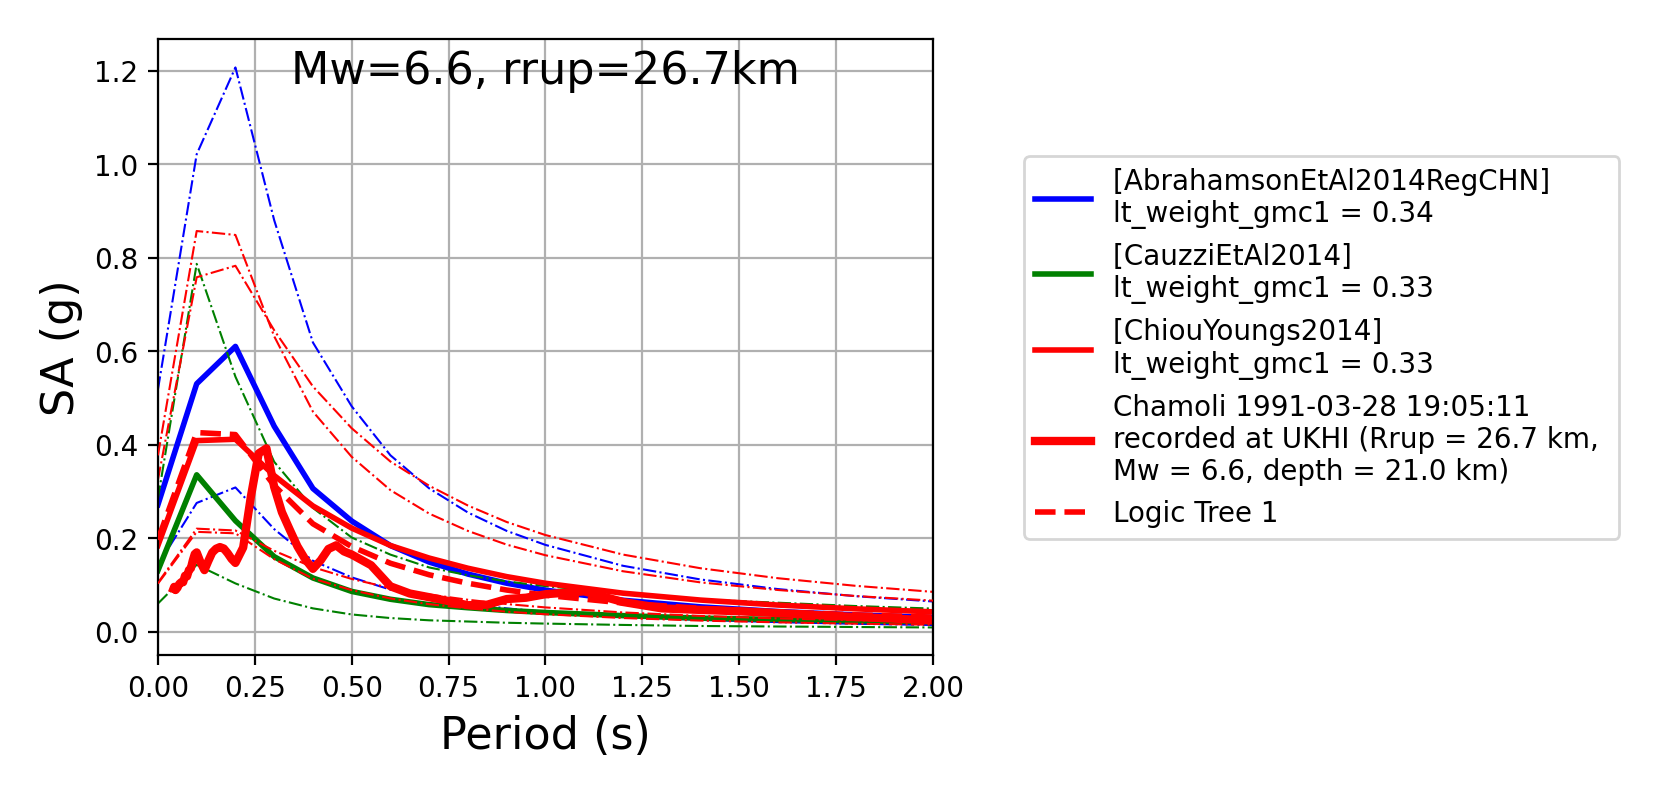
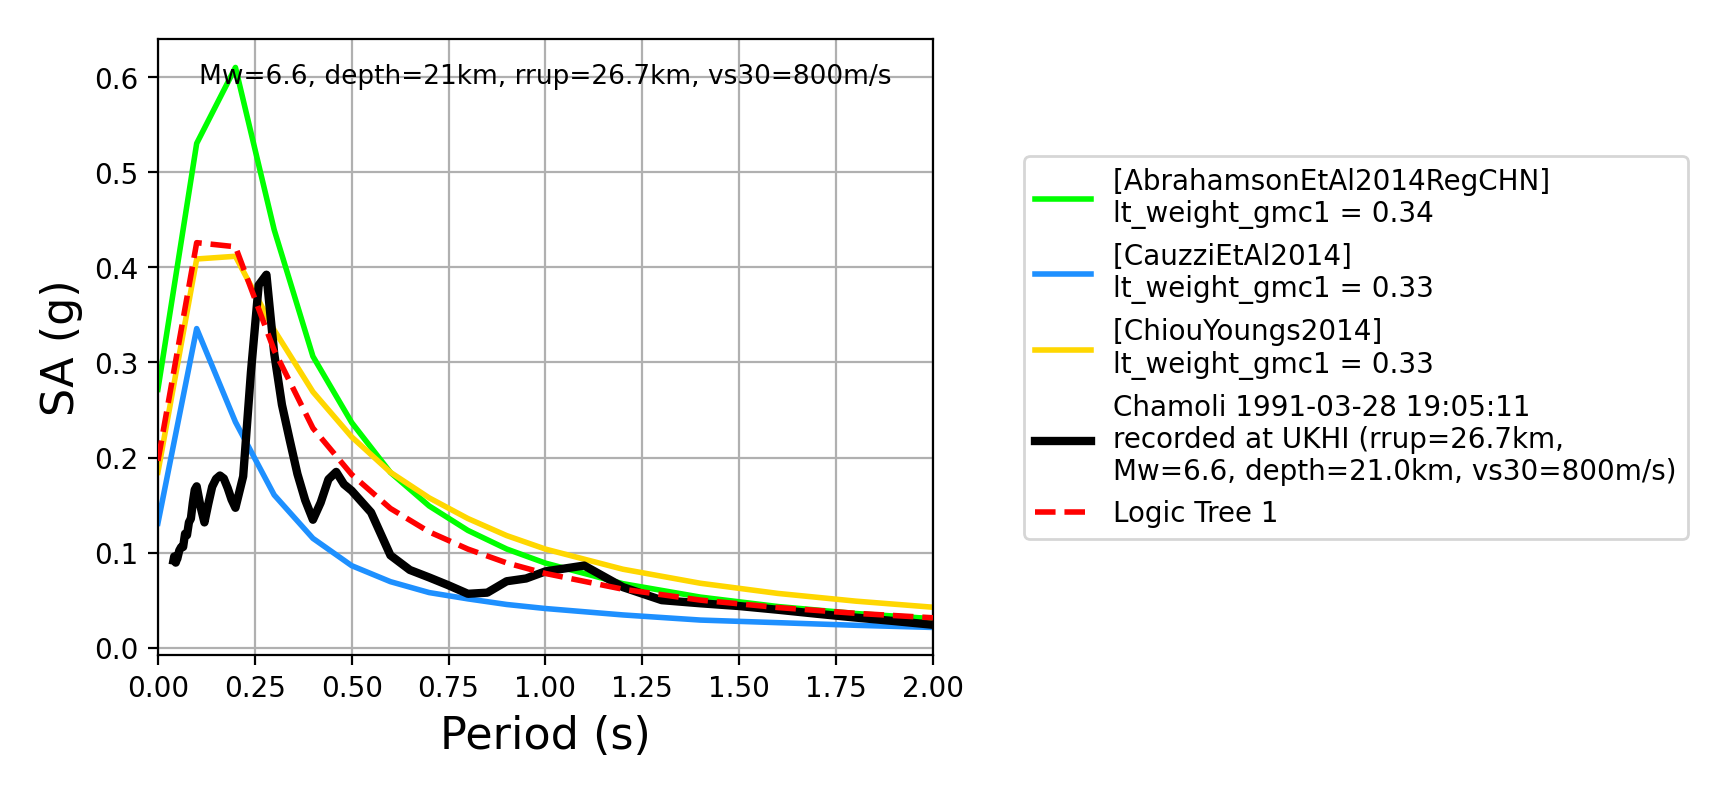
better document the obs spectra plotting

diff --git a/docsrc/contents/smt.rst b/docsrc/contents/smt.rst
@@ -502,7 +502,8 @@ Comparing GMPEs
 
 5. Plot of Spectra from a Record
 
-   The spectra of a processed record can also be plotted along with predictions by the selected GMPEs for the same ground-shaking scenario. An example of the input for the record spectra is provided in the demo files:
+   The spectra of a processed record can also be plotted along with predictions by the selected GMPEs for the same ground-shaking scenario. An example of the input files for this capability using a record of the 1993 Chamoli earthquake can be found in the test files for the
+   Comparison module. A comparison of a record's spectra against some GMPEs can be generated as follows:
 
     .. code-block:: ini
     
@@ -514,7 +515,7 @@ Comparing GMPEs
 
 6. Plot of ratios of attenuation curves
 
-   The ratios of the median predictions from each GMPE and a baseline GMPE (specified in the ``.toml`` - see above) can also be plotted. It should be noted that ratios are not computed/plotted for any specified GMC logic trees. An example is provided in the demo files:
+   The ratios of the median predictions from each GMPE and a baseline GMPE (specified in the ``.toml`` file - see above) can also be plotted. It should be noted that ratios are not computed/plotted for any specified GMC logic trees. An example is provided in the demo files:
 
     .. code-block:: ini
     
